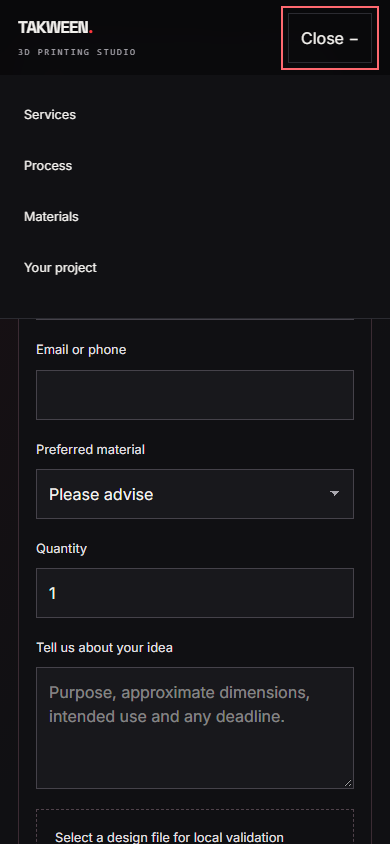
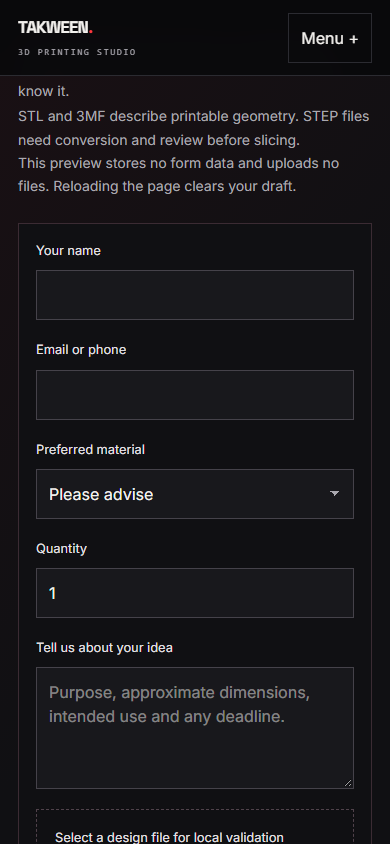
Verify menu closure before quote screenshots and document keyboard finding

Changed region(s): [[0.0308, 0.0924, 0.9538, 0.3389], [0.7077, 0.0, 0.9846, 0.0924]]

diff --git a/tests/audit/coverage.spec.ts b/tests/audit/coverage.spec.ts
@@ -10,7 +10,7 @@ test("viewport, keyboard, route, network and layout audit",async({page},info)=>{
   expect(await page.evaluate(()=>document.documentElement.scrollWidth<=innerWidth)).toBe(true);
   // WebKit default link-tabbing follows Safari keyboard preferences; verify focus/activation explicitly there.
   if(info.project.name==="webkit")await page.getByRole("link",{name:"Skip to content"}).focus();else await page.keyboard.press("Tab");await expect(page.getByRole("link",{name:"Skip to content"})).toBeFocused();
-  const menu=page.getByRole("button",{name:"Open menu"});if(await menu.isVisible()){await menu.click();await expect(page.getByRole("navigation")).toBeVisible();await page.screenshot({path:info.outputPath(`${width}-navigation.png`)});await page.keyboard.press("Escape");}
+  const menu=page.getByRole("button",{name:"Open menu"});if(await menu.isVisible()){await menu.click();await expect(page.getByRole("navigation")).toBeVisible();await page.screenshot({path:info.outputPath(`${width}-navigation.png`)});await page.getByRole("button",{name:"Close menu"}).click();await expect(page.getByRole("navigation")).not.toBeVisible();}
   await page.screenshot({path:info.outputPath(`${width}-home.png`)});
   await page.locator("#quote").scrollIntoViewIfNeeded();await expect(page.getByLabel("Your name",{exact:true})).toBeVisible();
   await page.screenshot({path:info.outputPath(`${width}-quote.png`)});

diff --git a/docs/AUDIT_REPORT.md b/docs/AUDIT_REPORT.md
@@ -106,3 +106,5 @@ Audit checkout: C:\Users\user\.codex\worktrees\takween-audit\takween.
 Use a separate port when previewing audit checkout; never displace the user's 3000.
 Backend work waits for explicit schema/security approval described in SUPABASE_PLAN.md.
 Original production regression suite: 22 passed, 2 Chromium-specific scenarios intentionally skipped in WebKit. Real WebGL transforms and CDP native touch gestures passed in Chromium.
+
+Manual screenshot review: Escape while focus stays on the mobile menu toggle does not dismiss navigation (Escape is handled only inside nav). The visible Close menu button works. This keyboard improvement is reported, not applied, to honour the request for unchanged frontend functionality. Screenshot tests explicitly close the menu through its supported control before capturing the quote form.
